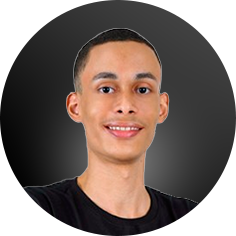
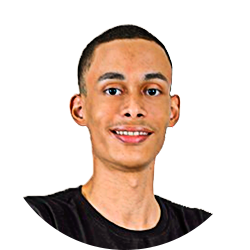
feat: alteração no estilo da página; link do portfólio adicionado

diff --git a/src/style/style.css b/src/style/style.css
@@ -1,9 +1,9 @@
 @import url('https://cdn-uicons.flaticon.com/2.3.0/uicons-brands/css/uicons-brands.css');
 @import url('https://cdn-uicons.flaticon.com/2.3.0/uicons-regular-rounded/css/uicons-regular-rounded.css');
-@import url('https://fonts.googleapis.com/css2?family=Montserrat:ital,wght@0,100..900;1,100..900&display=swap');
+@import url('https://fonts.googleapis.com/css2?family=Poppins:ital,wght@0,100;0,200;0,300;0,400;0,500;0,600;0,700;0,800;0,900;1,100;1,200;1,300;1,400;1,500;1,600;1,700;1,800;1,900&display=swap');
 
 :root {
-    --page-color: rgb(0, 68, 255);
+    --page-color: #15aaff;
     --text-color: white;
     --black-container: rgba(24, 24, 24, 0.8);
 }
@@ -13,15 +13,12 @@
     padding: 0;
     box-sizing: border-box;
     text-decoration: none;
-    font-family: "Montserrat", sans-serif;
+    font-family: "Poppins", sans-serif;
     overflow: hidden;
 }
 
 body {
-    background-image: url('../img/background.png');
-    background-size: cover;
-    background-repeat: no-repeat;
-    background-position: center;
+    background-color: #373636;
     display: flex;
     justify-content: center;
     align-items: center;
@@ -31,11 +28,10 @@ body {
 .box-blur {
     width: 100%;
     height: 100vh;
-    backdrop-filter: blur(.2rem) brightness(50%);
+    backdrop-filter: brightness(50%);
 }
 
 #box-container {
-    background-color: var(--black-container);
     width: 100%;
     height: 100vh;
     border: none;
@@ -46,7 +42,6 @@ body {
 }
 
 .box-header {
-    /* background-color: red; */
     width: 100%;
     display: flex;
     flex-direction: column;
@@ -55,7 +50,6 @@ body {
 }
 
 .box-main {
-    /* background-color: yellow; */
     width: 100%;
     display: flex;
     flex-direction: column;
@@ -76,11 +70,10 @@ img {
     justify-content: center;
     align-items: center;
     border-radius: 50%;
-    border: 2px solid var(--text-color);
+    border: 2px solid var(--page-color);
 }
 
 #name-person {
-    /* background-color: yellow; */
     display: flex;
     flex-direction: column;
     justify-content: center;
@@ -91,8 +84,11 @@ img {
     color: var(--text-color);
 }
 
+.stack {
+    color: var(--page-color);
+}
+
 #list-links {
-    /* background-color: green; */
     display: flex;
     flex-direction: column;
     justify-content: center;
@@ -109,17 +105,18 @@ img {
     background-color: transparent;
     height: 60px;
     width: 100%;
-    border: 2px solid var(--text-color);
+    border: 2px solid var(--page-color);
     border-radius: 50px;
     padding-left: 15px;
     padding-right: 15px;
     color: var(--text-color);
-    font-weight: 550;
+    font-weight: 500;
     font-size: 18px;
 }
 
 #list-links > a:hover {
     background-color: var(--page-color);
+    color: #373636;
     transition: .3s;
     transform: scale(0.98);
 }
@@ -129,15 +126,12 @@ img {
 .fi-rr-globe {
     display: flex;
     padding: 8px;
-    /* background-color: red; */
     font-size: 22px;
 }
 
 .box-social-media {
     display: flex;
-    flex-direction: row;
     padding: 5px;
-    /* background-color: blue; */
     gap: 20px;
     margin-top: .2rem;
 }
@@ -149,12 +143,12 @@ img {
     align-items: center;
     justify-content: center;
     color: var(--text-color);
-    border: 2px solid var(--text-color);
+    border: 2px solid var(--page-color);
     background-color: transparent;
     border-radius: 50%;
     width: 50px;
     height: 50px;
-    font-size: 18.3px;
+    font-size: 20.1px;
     margin: 8px;
 }
 
@@ -162,6 +156,7 @@ img {
 .fi-brands-tik-tok:hover,
 .fi-brands-youtube:hover {
     background-color: var(--page-color);
+    color: #373636;
     transition: .3s;
     transform: scale(1.1);
 }
@@ -174,7 +169,7 @@ img {
 
 .name-footer > a {
     font-weight: bold;
-    color: var(--text-color);
+    color: var(--page-color);
 }
 
 .name-footer > a:hover {
@@ -191,7 +186,10 @@ img {
         display: flex;
         justify-content: center;
         align-items: center;
-        backdrop-filter: blur(.6rem) brightness(35%);
+        backdrop-filter: blur(.6rem) brightness(20%) grayscale(100%);
+        background-position: center;
+        background-repeat: no-repeat;
+        background-size: cover;
     }
     
     #box-container {
@@ -201,13 +199,13 @@ img {
         align-items: center;
         width: 70%;
         height: 60vh;
-        border: 2px solid var(--text-color);
+        border: 2px solid var(--page-color);
         border-radius: 20px;
         background-color: rgba(255, 255, 255, 0.2);
     }
 
     .box-header {
-        border-right: 2px solid var(--text-color);
+        border-right: 2px solid var(--page-color);
         flex: 1;
         height: 100%;
     }

diff --git a/index.html b/index.html
@@ -16,12 +16,12 @@
                 </div>
                 <div id="name-person">
                     <h1>Jardson Alan</h1>
-                    <h4>Desenvolvedor Front-End</h4>
+                    <h4>Desenvolvedor <span class="stack">Front-End</span></h4>
                 </div>
             </div>
             <div class="box-main">
                 <div id="list-links">
-                    <a href="#" rel="noopener noreferrer">Portfólio - Em breve<i class="fi fi-rr-globe"></i></a>
+                    <a href="https://jardsonalan.github.io/portfolio/" target="_blank" rel="noopener noreferrer">Portfólio<i class="fi fi-rr-globe"></i></a>
                     <a href="https://github.com/jardsonalan" target="_blank" rel="noopener noreferrer">GitHub<i class="fi fi-brands-github"></i></a>
                     <a href="http://www.linkedin.com/in/jardson-alan" target="_blank" rel="noopener noreferrer">LinkedIn<i class="fi fi-brands-linkedin"></i></a>
         
